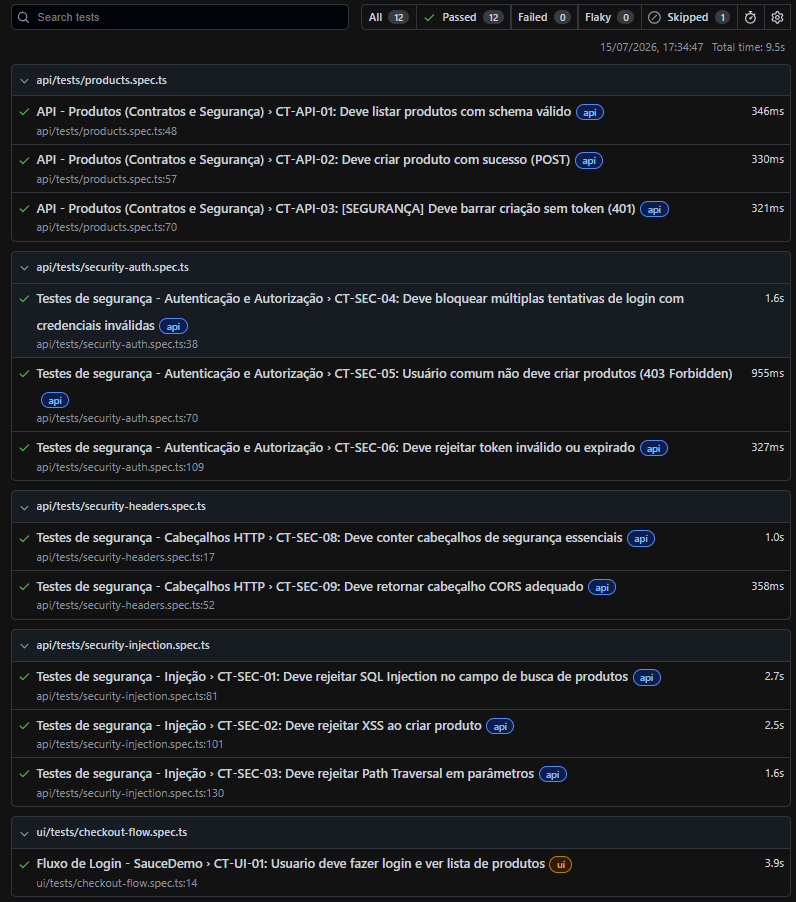
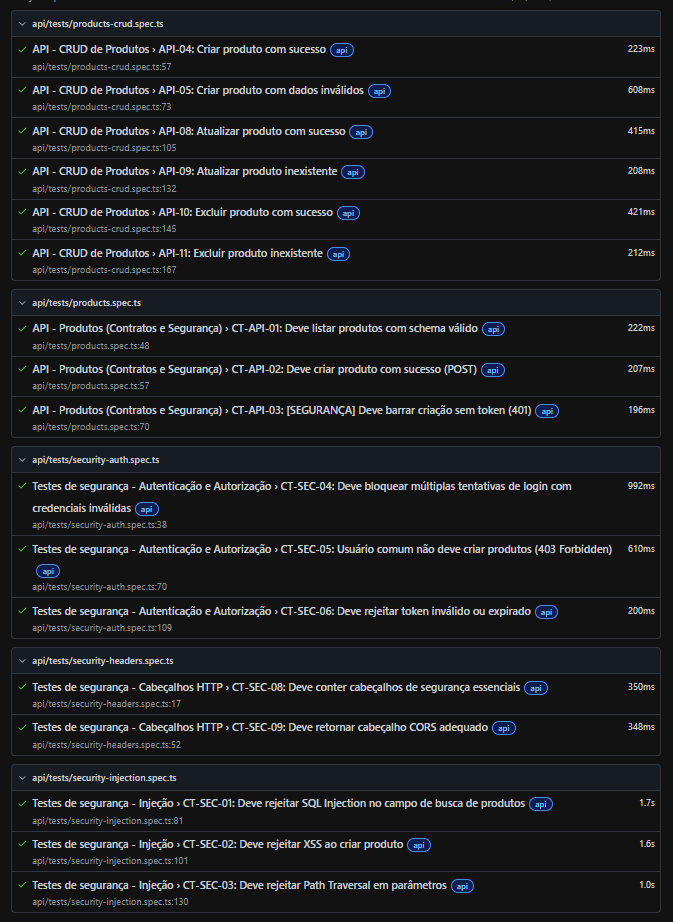
docs: atualiza README com arquitetura híbrida e melhorias na estrutura

Changed region(s): [[0.0, 0.0, 0.9985, 1.0]]

diff --git a/README.md b/README.md
@@ -316,7 +316,7 @@ O QA Forge segue princípios de Engenharia de Software para tornar a suíte de t
 
 # Diferenciais do Projeto
 
-Embora o QA Forge seja um laboratório de estudos, sua arquitetura foi concebida para refletir práticas utilizadas em projetos reais de Engenharia de Qualidade.
+Embora seja um laboratório de estudos, sua arquitetura foi concebida para refletir práticas utilizadas em projetos reais de Engenharia de Qualidade.
 
 Entre seus principais diferenciais estão:
 
@@ -330,3 +330,132 @@ Entre seus principais diferenciais estão:
 - Monitoramento de cobertura de código.
 - Padronização automática do código utilizando ESLint e Prettier.
 - Evolução contínua com foco em experimentação e aprendizado.
+
+#  Primeiros Passos
+
+## Pré-requisitos
+
+Antes de executar o projeto, certifique-se de possuir os seguintes recursos instalados:
+
+| Ferramenta | Versão Recomendada |
+|------------|-------------------|
+| Node.js | 18+ |
+| npm | 9+ |
+| Docker | Última versão |
+| Playwright | Navegadores instalados (`npx playwright install`) |
+| k6 | Para execução dos testes de performance |
+
+---
+
+## Instalação
+
+Clone o repositório:
+
+```bash
+git clone https://github.com/j0hnWeider/qa-forge.git
+```
+
+Acesse o diretório do projeto:
+
+```bash
+cd qa-forge
+```
+
+Instale as dependências:
+
+```bash
+npm install
+```
+
+Instale os navegadores utilizados pelo Playwright:
+
+```bash
+npx playwright install
+```
+
+Caso necessário, copie o arquivo de variáveis de ambiente:
+
+```bash
+cp .env.example .env
+```
+
+---
+
+# Execução
+
+## Comandos disponíveis
+
+| Comando | Descrição |
+|----------|-----------|
+| `npm run test:all` | Executa toda a suíte de testes |
+| `npm run test:api` | Executa apenas os testes de API |
+| `npm run test:ui` | Executa apenas os testes de Interface |
+| `npm run test:perf` | Executa os testes de Performance (k6) |
+| `npm run test:zap` | Executa o scanner OWASP ZAP |
+| `npm run lint` | Analisa a qualidade do código |
+| `npm run format` | Formata o código com Prettier |
+
+---
+
+# Evidências
+
+As imagens abaixo representam a execução da suíte de testes e do pipeline no momento da elaboração desta documentação.
+
+## Visão Geral
+
+Todos os cenários executados com sucesso.
+
+![Todos os testes](imagens/all-tests-passing.png)
+
+---
+
+## Testes de API
+
+Validação dos cenários funcionais e de segurança da API.
+
+![API](imagens/api-tests-passing.png)
+
+---
+
+## Testes de Interface
+
+Execução dos fluxos automatizados utilizando Playwright.
+
+![UI](imagens/ui-tests-passing.png)
+
+---
+
+## Testes de Segurança
+
+Execução dos cenários de autenticação, autorização e validações de segurança.
+
+![Segurança](imagens/security-tests-passing.png)
+
+---
+
+## Scanner OWASP ZAP
+
+Resultado da análise passiva de vulnerabilidades.
+
+![OWASP ZAP](imagens/security-report-passing.png)
+
+---
+
+## Pipeline CI/CD
+
+Execução automática da suíte de testes através do GitHub Actions.
+
+![Pipeline](imagens/pipeline-passing.png)
+
+---
+
+# Relatórios
+
+Após a execução dos testes, são gerados relatórios que auxiliam na análise dos resultados.
+
+| Relatório | Localização |
+|-----------|-------------|
+| Playwright HTML Report | `playwright-report/index.html` |
+| Allure Results | `allure-results/` |
+| Test Results | `test-results/` |
+| OWASP ZAP Report | `reports/` |